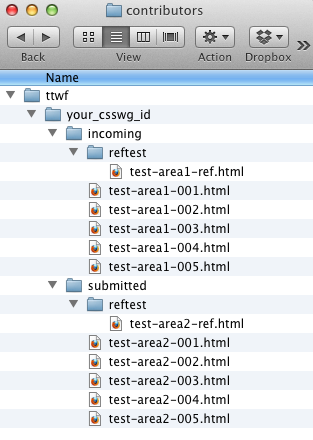
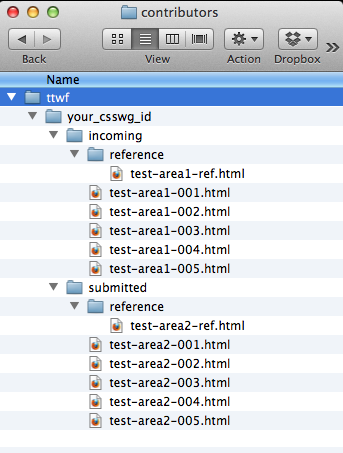
incorporated Peter's feedback

Changed region(s): [[0.0, 0.0, 1.0, 0.975], [0.23, 0.0, 1.0, 0.1477], [0.9776, 0.0, 1.0, 0.0295]]

diff --git a/presentations/test-the-web-forward-tutorial/index.html b/presentations/test-the-web-forward-tutorial/index.html
@@ -85,17 +85,15 @@
     				    <ul>
     				    <li style="list-style-type: none;">CSSWG Test Repository</li>
     				    <ul>
-    				        <li><tt>test</tt></li>
     				        <ul>
-    				            <li><tt>contributors</tt></li>
+    				        <li><tt>contributors</tt></li>
+						    <ul>
+						        <li><tt>ttwf</tt></li>
 						        <ul>
-						            <li><tt>ttwf</tt></li>
+						            <li><tt><em>your_csswg_id</em></tt></li>
 						            <ul>
-						                <li><tt><em>your_csswg_id</em></tt></li>
-						                <ul>
-						                    <li><tt>incoming</tt></li>
-    						                <li><tt>submitted</tt></li>
-						                </ul>
+						                <li><tt>incoming</tt></li>
+    						            <li><tt>submitted</tt></li>
 						            </ul>
 						        </ul>
 						    </ul>
@@ -115,10 +113,10 @@
     					<br>
     					<br>
     					<p>Spec Links:</p>
-    					<p style="font-size: 18pt">
-    					    <a href="http://dev.w3.org/csswg/css3-transforms/#transform-property" target="top">http://dev.w3.org/csswg/css3-transforms/#transform-property</a>
+    					<p style="font-size: 16pt">
+    					    <a href="http://www.w3.org/TR/css3-transforms/#transform-property" target="top">http://www.w3.org/TR/css3-transforms/css3-transforms/#transform-property</a>
     					    <br>
-    					    <a href="http://dev.w3.org/csswg/css3-transforms/#two-d-transform-functions" target="top">http://dev.w3.org/csswg/css3-transforms/#two-d-transform-functions</a>
+    					    <a href="http://www.w3.org/TR/css3-transforms/css3-transforms/#two-d-transform-functions" target="top">http://www.w3.org/TR/css3-transforms/css3-transforms/#two-d-transform-functions</a>
 					    </p>
 					</section>
 					<section>
@@ -234,7 +232,7 @@
                 				     <br>
                 				     <br>
                 				     <p><span class="localPath">From your incoming directory created in previous step</span></p>
-                			         <p>$ cp -R ../../samples/* .</p>
+                			         <p>$ cp -R ../../samples/ttwf-reftest-tutorial-starter* .</p>
                 			     </div>
               		     </div>
                       </section>
@@ -250,7 +248,7 @@
                 				     <br>
                 				     <br>
                 				     <p><span class="localPath">From your incoming directory created in previous step</span></p>
-                			         <p>> xcopy /e ..\..\samples .</p>
+                			         <p>> xcopy /e ..\..\samples\ttwf-reftest-tutorial-starter .</p>
                 			     </div>
               		     </div>                        
                       </section>
@@ -303,7 +301,7 @@
        &lt;html&gt;
            &lt;head&gt;
               . . .
-              &lt;link rel="match" href="reftest/ttwf-reftest-tutorial-starter-ref.html"&gt;
+              &lt;link rel="match" href="reference/ttwf-reftest-tutorial-starter-ref.html"&gt;
               . . .
                            </span>		        
                        				    </code>
@@ -457,7 +455,7 @@
                             <br>
                              <h2>Step 10</h2>
                              <br>
-                             <p class="font2">Open the reftests/ttwf-reftest-tutorial-starter-ref.html file in an editor</p>
+                             <p class="font2">Open the reference/ttwf-reftest-tutorial-starter-ref.html file in an editor</p>
     
                         </section>
 
@@ -664,7 +662,7 @@
                     				    <p>$ hg merge</p>
                     				    <p>$ hg commit -m "merging"</p>
                     			        <p>$ hg mv incoming/ttwf-reftest-tutorial-001.html submitted/ttwf-reftest-tutorial-001.html</p>
-                    			        <p>$ hg mv incoming/reftest/ttwf-reftest-tutorial-ref.html submitted/reftest/ttwf-reftest-tutorial-ref.html</p>
+                    			        <p>$ hg mv incoming/reference/ttwf-reftest-tutorial-ref.html submitted/reference/ttwf-reftest-tutorial-ref.html</p>
                     			        <p>$ hg commit -m "moved the TTWF reftest tutorial to the submitted folder"</p>
                     			        <p>$ hg push</p>
                     			    </div>
@@ -685,7 +683,7 @@
                     				    <p>> hg merge</p>
                     				    <p>> hg commit -m "merging"</p>
                     			        <p>> hg mv incoming\ttwf-reftest-tutorial-001.html submitted\ttwf-reftest-tutorial-001.html</p>
-                    			        <p>> hg mv incoming\reftest/ttwf-reftest-tutorial-ref.html submitted\reftest\ttwf-reftest-tutorial-ref.html</p>
+                    			        <p>> hg mv incoming\reference/ttwf-reftest-tutorial-ref.html submitted\reference\ttwf-reftest-tutorial-ref.html</p>
                     			        <p>> hg commit -m "moved the TTWF reftest tutorial to the submitted folder"</p>
                     			        <p>> hg push</p>
                     			    </div>

diff --git a/presentations/test-the-web-forward-overview/index.html b/presentations/test-the-web-forward-overview/index.html
@@ -57,17 +57,14 @@
     				    <ul>
     				    <li style="list-style-type: none;">CSSWG Test Repository</li>
     				    <ul>
-    				        <li><tt>test</tt></li>
-    				        <ul>
-    				            <li><tt>contributors</tt></li>
+    				        <li><tt>contributors</tt></li>
+						    <ul>
+						        <li><tt>ttwf</tt></li>
 						        <ul>
-						            <li><tt>ttwf</tt></li>
+						            <li><tt><em>your_csswg_id</em></tt></li>
 						            <ul>
-						                <li><tt><em>your_csswg_id</em></tt></li>
-						                <ul>
-						                    <li><tt>incoming</tt></li>
-    						                <li><tt>submitted</tt></li>
-						                </ul>
+						                <li><tt>incoming</tt></li>
+    						            <li><tt>submitted</tt></li>
 						            </ul>
 						        </ul>
 						    </ul>
@@ -86,10 +83,10 @@
     					<br>
     					<br>
     					<p>Spec Links:</p>
-    					<p style="font-size: 18pt">
-    					    <a href="http://dev.w3.org/csswg/css3-transforms/#transform-property" target="top">http://dev.w3.org/csswg/css3-transforms/#transform-property</a>
+    					<p style="font-size: 16pt">
+    					    <a href="http://www.w3.org/TR/css3-transforms/css3-transforms/#transform-property" target="top">http://www.w3.org/TR/css3-transforms/css3-transforms/#transform-property</a>
     					    <br>
-    					    <a href="http://dev.w3.org/csswg/css3-transforms/#two-d-transform-functions" target="top">http://dev.w3.org/csswg/css3-transforms/#two-d-transform-functions</a>
+    					    <a href="http://www.w3.org/TR/css3-transforms/css3-transforms/#two-d-transform-functions" target="top">http://www.w3.org/TR/css3-transforms/css3-transforms/#two-d-transform-functions</a>
 					    </p>
 					</section>
 					<section>
@@ -191,7 +188,7 @@
 &lt;html&gt;
 &lt;head&gt;
     . . .   
-    &lt;link rel="match" href="reftest/ttwf-reftest-tutorial-ref.html"&gt;
+    &lt;link rel="match" href="reference/ttwf-reftest-tutorial-ref.html"&gt;
     . . .
 </span>
                         </code>

diff --git a/presentations/test-the-web-forward-tutorial/css/main.css b/presentations/test-the-web-forward-tutorial/css/main.css
@@ -228,7 +228,7 @@ body {
 .reveal a:not(.image) {
 	color: hsl(185, 85%, 50%);
 	text-decoration: none;
-	line-height: 35px;
+	line-height: 40px;
 
 	-webkit-transition: all .2s ease;
 	   -moz-transition: all .2s ease;

diff --git a/presentations/test-the-web-forward-overview/css/main.css b/presentations/test-the-web-forward-overview/css/main.css
@@ -228,6 +228,7 @@ body {
 .reveal a:not(.image) {
 	color: hsl(185, 85%, 50%);
 	text-decoration: none;
+	line-height: 40px;
 
 	-webkit-transition: all .2s ease;
 	   -moz-transition: all .2s ease;
